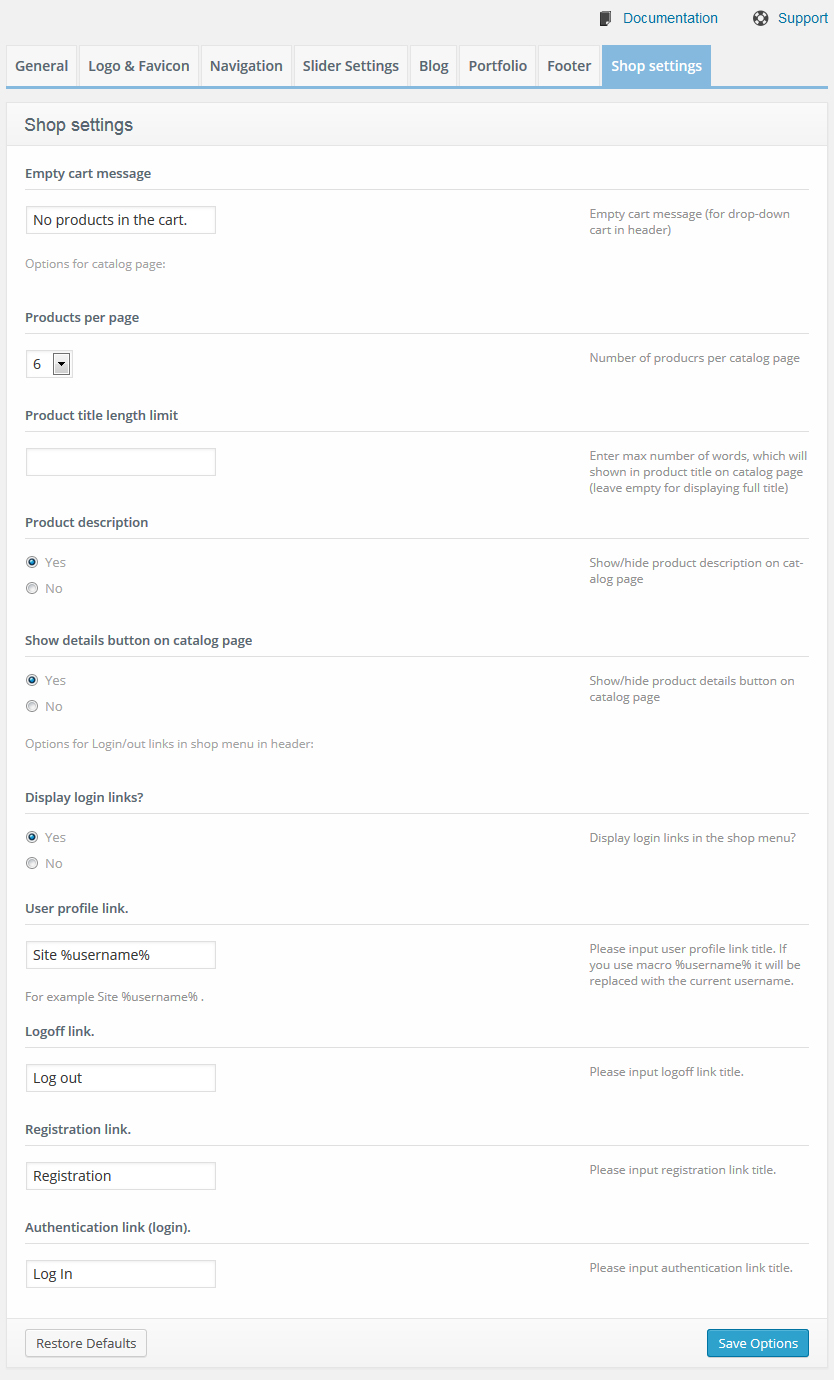
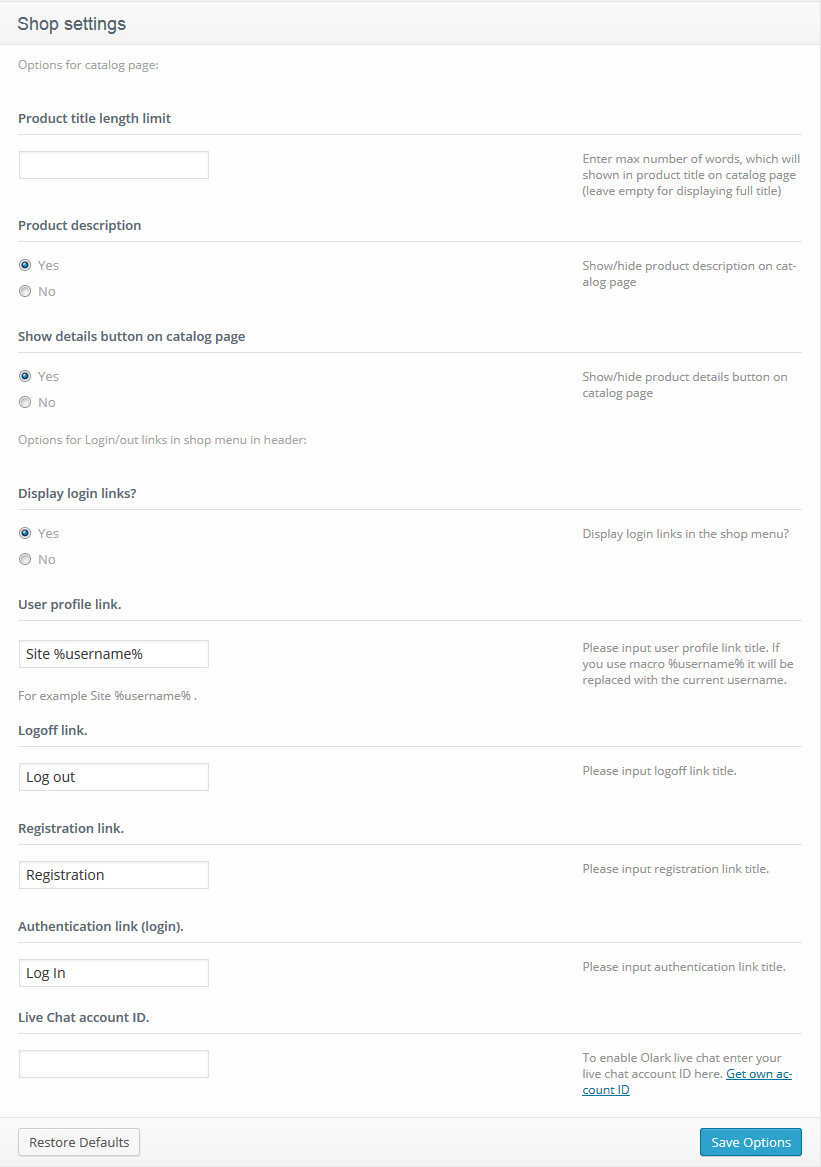
Add: LiveChat

diff --git a/index_en.html b/index_en.html
@@ -175,11 +175,14 @@
                           <li><a href="#blog_option">Blog</a></li>    
                           <li><a href="#portfolio_option">Portfolio</a></li>  
                           <li><a href="#footer_option">Footer</a></li>
+                          <li><a href="#shop_option">Shop options</a></li> 
+                            <ul class="list"> 
+                              <li><a href="#olark_live_chat">Olark live chat</a></li> 
+                            </ul>  
                           
-                          <li><a href="#footer_logo_option">Footer Logo</a></li> 
-                          <li><a href="#shop_option">Shop options</a></li>                   
-                          <li><a href="#contacts_option">Contacts</a></li>                  
-                          <!-- <li><a href="#social_option">Social</a></li>   -->                     
+                          <li><a href="#footer_logo_option">Footer Logo</a></li>
+                          <li><a href="#contacts_option">Contacts</a></li>
+                          <li><a href="#social_option">Social</a></li>                     
                          </ul> 
                       </dd>
                      </dl> 
@@ -1855,7 +1858,45 @@
       </div>
       </div>
     </article>
-     <article id="footer_logo_option">
+     
+
+     <article id="shop_option">
+      <h4>Shop Options</h4>
+      <div class="row"> 
+      <figure class="img-paraloid pull-left" style="width:40%;"><a href="img/wordpress/theme_options_shop.jpg" class="pretty_image" data-gal="prettyPhoto"><img src="img/wordpress/theme_options_shop.jpg" alt=""><i class="icon-search"></i></a></figure>
+      <div class="clearfix">
+      <ul>      
+        <li><i class="icon-angle-right"></i> <strong>Product title length limit</strong> - max number of words, which will shown in product title on catalog page (leave empty for displaying full title)</li>
+        <li><i class="icon-angle-right"></i> <strong>Product description</strong> - Show/hide product description on catalog page</li>
+        <li><i class="icon-angle-right"></i> <strong>Show details button on catalog page</strong> - Show/hide product details button on catalog page</li>
+        <li><i class="icon-angle-right"></i> <strong>Display login links?</strong> - Display login links in the shop menu?</li>
+        <li><i class="icon-angle-right"></i> <strong>User profile link</strong> - user profile link title. If you use macro %username% it will be replaced with the current username. For example Site %username% .</li>
+        <li><i class="icon-angle-right"></i> <strong>Logoff link</strong> - Logoff link title.</li>
+        <li><i class="icon-angle-right"></i> <strong>Registration link</strong> - Registration link title</li>
+        <li><i class="icon-angle-right"></i> <strong>Authentication link (login)</strong> - Authentication (login) link title</li>
+        <li><i class="icon-angle-right"></i> <strong>Live Chat account ID</strong> - Your <a href="http://www.olark.com" rel="nofollow" target="_blank">Olark live chat</a> account ID</li>
+      </ul>
+      </div>
+      </div>
+      <article id="olark_live_chat">
+      <h4>Olark Live Chat</h4>
+      <div class="box-notification">
+        <span>To set up a live chat like the one on the Live Demo, you'll need to register on the official Web site
+<a href="http://www.olark.com/?r=ad8fbsj2" rel="nofollow" target="_blank">Olark registration</span>
+      </div>
+      <div class="row"> 
+          <figure class="img-paraloid pull-left" style="width:300px;"><a href="img/wordpress/live-chat-1.jpg" class="pretty_image" data-gal="prettyPhoto"><img src="img/wordpress/live-chat-1.jpg" alt=""><i class="icon-search"></i></a></figure>
+          <div class="clearfix">Click the 'Get your code' link.</div>
+      </div>    
+      <div class="row"> 
+          <figure class="img-paraloid pull-left" style="width:300px;"><a href="img/wordpress/live-chat-2.jpg" class="pretty_image" data-gal="prettyPhoto"><img src="img/wordpress/live-chat-2.jpg" alt=""><i class="icon-search"></i></a></figure>
+          <div class="clearfix">Insert your generated site ID code into the field in Shop Options tab (Live Chat account ID Option).</div>
+      </div>  
+        
+
+    </article>
+    </article>
+    <article id="footer_logo_option">
       <p class="alert">The sections 'footer logo,' 'contacts' and 'social' below are optional. Some themes may not include them. </p>
       <h4>Footer Logo</h4>
       <div class="row"> 
@@ -1865,28 +1906,6 @@
       </ul>
       </div>
     </article>
-
-     <article id="shop_option">
-      <h4>Shop Options</h4>
-      <div class="row"> 
-      <figure class="img-paraloid pull-left" style="width:40%;"><a href="img/wordpress/theme_options_shop.jpg" class="pretty_image" data-gal="prettyPhoto"><img src="img/wordpress/theme_options_shop.jpg" alt=""><i class="icon-search"></i></a></figure>
-      <div class="clearfix">
-      <ul>
-        <li><i class="icon-angle-right"></i> <strong>Empty cart message</strong> - Default message for empty cart in Cart widget in header</li>
-        <li><i class="icon-angle-right"></i> <strong>Products per page</strong> - Number of producrs per catalog page</li>
-        <li><i class="icon-angle-right"></i> <strong>Product title length limit</strong> - max number of words, which will shown in product title on catalog page (leave empty for displaying full title)</li>
-        <li><i class="icon-angle-right"></i> <strong>Product description</strong> - Show/hide product description on catalog page</li>
-        <li><i class="icon-angle-right"></i> <strong>Show details button on catalog page</strong> - Show/hide product details button on catalog page</li>
-        <li><i class="icon-angle-right"></i> <strong>Display login links?</strong> - Display login links in the shop menu?</li>
-        <li><i class="icon-angle-right"></i> <strong>User profile link</strong> - user profile link title. If you use macro %username% it will be replaced with the current username. For example Site %username% .</li>
-        <li><i class="icon-angle-right"></i> <strong>Logoff link</strong> - Logoff link title.</li>
-        <li><i class="icon-angle-right"></i> <strong>Registration link</strong> - Registration link title</li>
-        <li><i class="icon-angle-right"></i> <strong>Authentication link (login)</strong> - Authentication (login) link title</li>
-      </ul>
-      </div>
-      </div>
-    </article>
-
     <article id="contacts_option">
       <h4>Contacts</h4>
       <div class="row"> 
@@ -1900,7 +1919,7 @@
       </div>
     </article>
     
-    <!--<article id="social_option">
+    <article id="social_option">
       <h4>Social</h4>
       <div class="row"> 
       <figure class="img-paraloid pull-left" style="width:40%;"><a href="img/wordpress/theme_options_social.jpg" class="pretty_image" data-gal="prettyPhoto"><img src="img/wordpress/theme_options_social.jpg" alt=""><i class="icon-search"></i></a></figure>
@@ -1912,7 +1931,7 @@
         <li><i class="icon-angle-right"></i> <strong>Linkedin URL</strong> - Linkedin URL.</li>
       </ul>
       </div>
-    </article>-->
+    </article>
 
   </section>  
 <!-- Theme Options end -->

diff --git a/css/style.css b/css/style.css
@@ -1,4 +1,5 @@
 /*Core variables and mixins*/
+
 .clearfix {
   *zoom: 1;
 }
@@ -43,6 +44,7 @@ a:focus {
   margin-left: 0;
 }
 /*------ template stylization ------*/
+
 body {
   min-width: 767px;
   color: #666666;
@@ -74,7 +76,7 @@ h1 {
   color: #3a3a3a;
 }
 h2 {
-  color: #000000;
+  color: black;
   font-size: 27px;
   font-weight: normal;
   padding: 39px 0 19px;
@@ -91,7 +93,7 @@ h3 {
 h4 {
   font-size: 16px;
   line-height: 18px;
-  color: #000000;
+  color: black;
   font-weight: normal;
   padding: 30px 0 18px;
 }
@@ -109,7 +111,7 @@ h5 {
 }
 code.prettyprint,
 pre.prettyprint {
-  background: #f5f5f5 !important;
+  background: whitesmoke !important;
   border: 1px solid #cecece !important;
   -webkit-border-radius: 5px;
   -moz-border-radius: 5px;
@@ -132,9 +134,9 @@ ol {
   -webkit-border-radius: 5px;
   -moz-border-radius: 5px;
   border-radius: 5px;
-  -webkit-box-shadow: 0px 1px 2px rgba(0, 0, 0, 0.1), inset 0px 0px 1px #ffffff;
-  -moz-box-shadow: 0px 1px 2px rgba(0, 0, 0, 0.1), inset 0px 0px 1px #ffffff;
-  box-shadow: 0px 1px 2px rgba(0, 0, 0, 0.1), inset 0px 0px 1px #ffffff;
+  -webkit-box-shadow: 0px 1px 2px rgba(0, 0, 0, 0.1), inset 0px 0px 1px white;
+  -moz-box-shadow: 0px 1px 2px rgba(0, 0, 0, 0.1), inset 0px 0px 1px white;
+  box-shadow: 0px 1px 2px rgba(0, 0, 0, 0.1), inset 0px 0px 1px white;
   font-size: 13px;
   line-height: 1em;
   color: #3a3a3a;
@@ -188,6 +190,7 @@ p strong {
   color: #010101;
 }
 /*------ header ------- */
+
 header {
   background: #fcfcfc;
   padding: 14px 0 17px;
@@ -206,6 +209,7 @@ header .brand {
   display: block;
 }
 /*------ content ------- */
+
 #content {
   background: url(../img/tail-content.gif);
   border-top: 1px solid #e1e1e1;
@@ -220,9 +224,10 @@ header .brand {
   list-style: none;
 }
 /*------ bs-docs-sidenav ------- */
+
 #nav_container {
-  background: #ffffff;
-  border-top: 1px solid #ccc;
+  background: white;
+  border-top: 1px solid #cccccc;
   -webkit-border-radius: 6px;
   -moz-border-radius: 6px;
   border-radius: 6px;
@@ -269,7 +274,7 @@ header .brand {
   width: 100%;
   margin: 0;
   padding: 0;
-  background-color: #ffffff;
+  background-color: white;
 }
 .bs-docs-sidenav > li {
   border-top: 1px solid #dfdfdf;
@@ -285,7 +290,7 @@ header .brand {
   position: relative;
 }
 .bs-docs-sidenav li dt:hover {
-  background: #f5f5f5;
+  background: whitesmoke;
 }
 .bs-docs-sidenav li dt a {
   font-family: Arial, Helvetica, sans-serif;
@@ -315,7 +320,7 @@ header .brand {
   float: left;
 }
 .bs-docs-sidenav li.act_item dt {
-  background: #f5f5f5;
+  background: whitesmoke;
 }
 .bs-docs-sidenav li.act_item dt a:before {
   color: #0179c6;
@@ -365,6 +370,9 @@ header .brand {
   margin: 0;
   padding: 8px 0 6px 20px ;
 }
+.bs-docs-sidenav .list .list {
+  padding: 0px 0 0px 20px ;
+}
 .bs-docs-sidenav .list li {
   padding: 0 20px 10px 7px;
 }
@@ -383,16 +391,16 @@ header .brand {
 }
 .bs-docs-sidenav .list li.current a:hover,
 .bs-docs-sidenav .list li.current i:before:hover {
-  color: #000;
+  color: black;
 }
 .bs-docs-sidenav .list a {
   color: #3a3a3a;
 }
 .bs-docs-sidenav .list a:hover {
-  color: #000;
+  color: black;
 }
 .bs-docs-sidenav .list a:hover i:before {
-  color: #000;
+  color: black;
 }
 #content .bs-docs-sidenav li a {
   text-align: left;
@@ -403,9 +411,10 @@ header .brand {
   right: 0;
 }
 /*------ box-conten ------- */
+
 .box-content {
-  border-top: 1px solid #ccc;
-  background-color: #ffffff;
+  border-top: 1px solid #cccccc;
+  background-color: white;
   -webkit-border-radius: 6px;
   -moz-border-radius: 6px;
   border-radius: 6px;
@@ -424,7 +433,7 @@ header .brand {
   padding: 10px;
 }
 #mod_table .module:nth-child(even) {
-  background: #f5f5f5;
+  background: whitesmoke;
 }
 .files_structure li i {
   color: #999999;
@@ -435,7 +444,7 @@ header .brand {
 .img-paraloid {
   text-align: center;
   padding: 5px;
-  background: #f5f5f5;
+  background: whitesmoke;
   border: 1px solid #cecece;
   -webkit-border-radius: 5px;
   -moz-border-radius: 5px;
@@ -482,7 +491,7 @@ span.img-paraloid {
 .box-success span {
   font-size: 15px;
   line-height: 20px;
-  color: #ffffff;
+  color: white;
   vertical-align: middle;
   display: table-cell;
   height: 40px;
@@ -502,7 +511,7 @@ span.img-paraloid {
 .box-error a,
 .box-notification a,
 .box-success a {
-  color: #fff;
+  color: white;
   text-decoration: underline;
 }
 .box-info a:hover,
@@ -564,7 +573,7 @@ span.img-paraloid {
 }
 .box-success:before {
   content: "\f00c";
-  color: #fff;
+  color: white;
   font-size: 44px;
   font-family: FontAwesome;
   margin-top: 10px;
@@ -618,7 +627,7 @@ footer {
   text-align: center;
   font-size: 13px;
   line-height: 20px;
-  background: #ffffff;
+  background: white;
   padding: 30px 0 40px;
 }
 .list-2 {
@@ -666,6 +675,7 @@ footer {
   padding-top: 8px;
 }
 /*======================= SCROLL TO TOP =======================*/
+
 #back-top {
   position: fixed;
   bottom: 20px;
@@ -680,13 +690,13 @@ footer {
   -moz-transition: 0.1s;
   transition: 0.1s;
   color: #666666;
-  background: #fff;
+  background: white;
   text-align: center;
   border: 1px solid #dfdfdf;
   height: 51px;
 }
 #back-top a:hover {
-  background: #f5f5f5;
+  background: whitesmoke;
 }
 #back-top a i {
   line-height: 51px;

diff --git a/less/style.less b/less/style.less
@@ -358,6 +358,7 @@ header{
   .list{
     margin:0;
     padding:8px 0 6px 20px ;
+    .list{padding:0px 0 0px 20px ;}
 	  li{
       padding: 0 20px 10px 7px;
       a{
